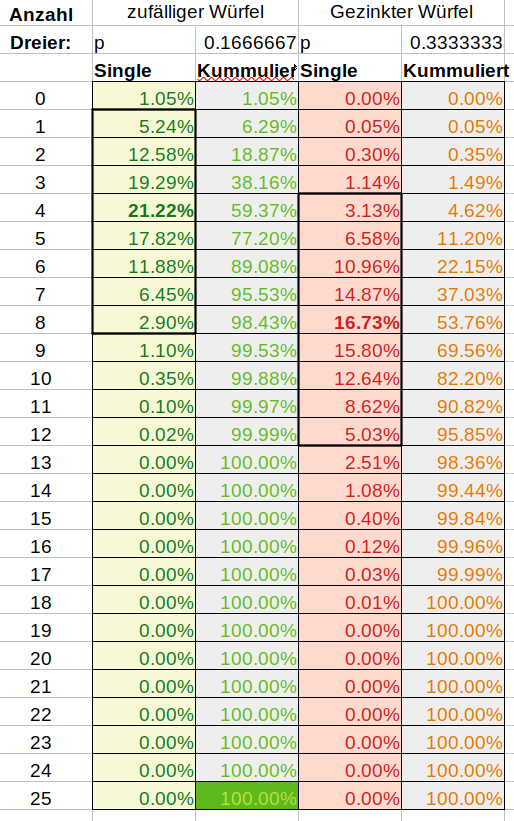
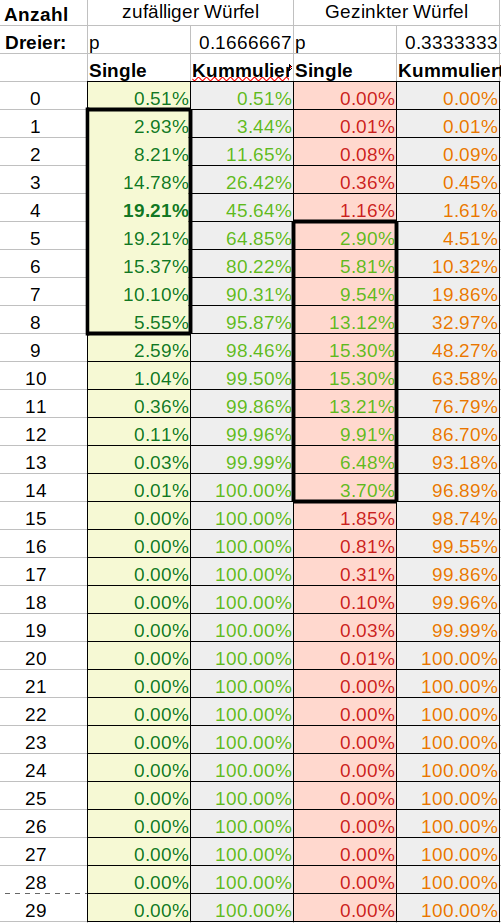
Hypothesentest - Arbeitsblatt überarbeitete
Neu 29 mal Werfen und nicht 25 mal

diff --git a/arbeitsblaetter/stochastik/hypothesentest/HypothesenExperiment.tex b/arbeitsblaetter/stochastik/hypothesentest/HypothesenExperiment.tex
@@ -13,12 +13,16 @@
 \TRAINER{Die Würfel werden vorab so sortiert, dass die Hälfte der
 Klasse einen gezinkten Würfel mit doppelter \epsdice{3} erhalten wird.}
 
-Werfen Sie den Würfel 25 Mal und notieren Sie das Ergebnis wie folgt: Wie oft kommt die \epsdice{3}, wie oft
-mehr als die \epsdice{2}):
+Werfen Sie den Würfel 29 Mal und notieren Sie das Ergebnis wie folgt:
+\begin{itemize}
+\item Wie oft kommt die \epsdice{3},
+\item wie oft mehr als die \epsdice{2}?
+\end{itemize}
 
 \begin{bbwFillInTabular}{|c|p{50mm}|}\hline
 $\epsdice{3}$ & \\\hline
 $\epsdice{3},\epsdice{4},\epsdice{5}$ oder $\epsdice{6}$ & \\\hline
+\epsdice{1} oder \epsdice{2} & \\\hline
 \end{bbwFillInTabular}
 
 \subsection{Ergebnis}
@@ -26,7 +30,7 @@ $\epsdice{3},\epsdice{4},\epsdice{5}$ oder $\epsdice{6}$ & \\\hline
 Wie oft ist die \epsdice{3} erschienen? ....................
 \vspace{15mm}
 
-Wie oft kam mehr als die \epsdice{3}? .......................
+Wie oft kam mehr als die \epsdice{2}? .......................
 
 \newpage
 
@@ -50,10 +54,10 @@ In unserem Beispiel lautet die
 Die Alternativhypothese lautet hier: Der Würfel ist nicht fair.
 
 Wie oft erwarten wir nun vom «fairen» Würfel, das Auftreten
-einer \epsdice{3} bei 25 maligem Würfeln?
+einer \epsdice{3} bei 29 maligem Würfeln?
 
 \TNT{4}{
-$\frac{25}{6}\approx 4.17$ Mal. Es ist jedoch \textbf{nicht} zu erwarten, dass
+$\frac{29}{6}\approx 4.83$ Mal. Es ist jedoch \textbf{nicht} zu erwarten, dass
 auch ein fairer Würfel \textbf{immer} genau 4 oder 5 Mal die \epsdice{3} zeigen wird!
 }
 
@@ -64,24 +68,24 @@ Ab wann werden wir nicht mehr glauben, dass der Würfel fair ist?
 Zeigt der Würfel ein Resultat, das extrem unwahrscheinlich ist, dann
 können wir annehmen, dass der Würfel irgendwie gezinkt ist.
 
-Auch wenn der Würfeln nun nicht exakt vier mal die Drei bringt, können
+Auch wenn der Würfeln nun nicht exakt fünf mal die Drei bringt, können
 wir eventuell annehmen, dass der Würfel fair ist und ein dreimaliges
 Auftreten kann genausogut eine Laune des Zufalls sein, wie ein
 fünfmaliges Auftreten.
 
 Berechnen Sie, wie groß die Wahrscheinlichkeit ist, dass ein «fairer»
-Würfel bei 25maligem Werfen \textbf{genau} zwei Mal eine \epsdice{3}
+Würfel bei 29maligem Werfen \textbf{genau} zwei Mal eine \epsdice{3}
 zeigt:
 
-\TNT{1.6}{Bernoulli $P(X=2 \text{ Mal }  = {25  \choose
-2} \left(\frac16\right)^2\times \left(\frac56\right)^{25-2}\approx 12.58\% $}
+\TNT{1.6}{Bernoulli $P(X=2 \text{ Mal }  = {29  \choose
+2} \left(\frac16\right)^2\times \left(\frac56\right)^{29-2}\approx 8.21\% $}
 
 Berechnen Sie mit dem Taschenrechner alle Wahrscheinlichkeiten, dass
 eine \epsdice{3} geworfen wird innerhalb von $n$ Würfen.
 
 \begin{bbwFillInTabular}{|c|p{8cm}|}\hline
 $n$  & Wahrscheinlichkeit, genau $n$-mal eine \epsdice{3} zu erzielen
-bei 25maligem werfen: \\\hline\hline
+bei 29maligem werfen: \\\hline\hline
 
  0   & \\\hline
  1   & \\\hline
@@ -101,21 +105,24 @@ bei 25maligem werfen: \\\hline\hline
 \subsection{Erwartete Verteilungen}
 \bbwCenterGraphic{6cm}{wuerfeltabelle.png}
 
-Mit 94.48\% Wahrscheinlichkeit liefert der normale Würfel 1 - 7 Mal die \epsdice{3}.
+Mit 95.36\% Wahrscheinlichkeit liefert der normale Würfel 1 - 8 Mal die \epsdice{3}.
 
-Mit 94.36\% Wahrscheinlichkeit liefert der gezinkte  Würfel 4 - 12 Mal die \epsdice{3}.
+Mit 95.28\% Wahrscheinlichkeit liefert der gezinkte  Würfel 5 - 14 Mal die \epsdice{3}.
 
 \bbwCenterGraphic{17cm}{wuerfelverteilung.png}
+\newpage
 
+\subsection{Aufstellen der Hypothese}
 Behauptung (Hypothese):
 
 \begin{center} $H_0$:
-\textbf{Ein fairer Würfel} wirft maximal sechs mal eine \epsdice{3}.
+\textbf{Ein fairer Würfel} liefert bei 29 maligem Werfen maximal
+sieben mal die \epsdice{3}.
 \end{center}
 
-\newpage
-
-
+Bemerkung: Wir sprechen hier von einer \textbf{einseitigen} Hypothese
+/ bzw. vom einseitigen Hypothesentest. Ein \textbf{zweiseitiger} Hypothesentest würde auch
+das Minimum festlegen.
 
 \subsection{Unsere Resultate}
 
@@ -123,9 +130,13 @@ Füllen wir in der Klasse gemeinsam die folgende Tabelle aus:
 
 \begin{bbwFillInTabular}{p{5cm}|p{5cm}|p{5cm}}
     & Würfel ist «fair» ($H_0$) & Würfel ist gezinkt ($H_1$)\\\hline
-Würfel wird als «fair» gewertet (weniger als sieben \epsdice{3}er).& & \\\hline
-Würfel wird als gezinkt gewertet (mehr als sechs \epsdice{3}er).& & \\\hline
+Würfel wird als «fair» gewertet (weniger als acht \epsdice{3}er).&
+& \TRAINER{fehler 2. Art}\\\hline
+Würfel wird als gezinkt gewertet (mehr als
+sieben \epsdice{3}er).& \TRAINER{fehler erster Art}& \\\hline
 \end{bbwFillInTabular}
+
+
 
 \newpage
 
@@ -135,11 +146,18 @@ Würfel wird als gezinkt gewertet (mehr als sechs \epsdice{3}er).& & \\\hline
 Wo «kippt» die Erwartung nun wohl am ehesten von einem «fairen» Würfel
 zu einem gezinkten, der auf zwei Seiten eine \epsdice{3} stehen hat?
 
-Beim etwa \LoesungsRaum{5-6} maligem Auftreten der \epsdice{3} sind wir
+Wo sind wir am «unsichersten»?
+Beim etwa \LoesungsRaum{6-8} maligem Auftreten der \epsdice{3} sind wir
 wohl am unsichersten.
 
-Legen wir fest: Ein Würfel, der weniger als sieben Mal
+Legen wir fest: Ein Würfel, der weniger als acht Mal
 eine \epsdice{3} zeigt bei 25maligem würfeln, gelte noch als «fair».
+
+\subsubsection{Signifikanzniveau}
+Das Signifikanzniveau für «Ein fairer Würfel liefert weniger als acht
+Mal die \epsdice{3} bei 29maligem Würfeln» liegt also bei:
+\vspace{15mm}
+\textbf{Signifikanzniveau} = \LoesungsRaum{90.31\%}
 
 \subsubsection{Fehler erster Art}
 Fehler erster Art (Alpha-Fehler) = Fälschliche Zurückweisung der Nullhypothese.
